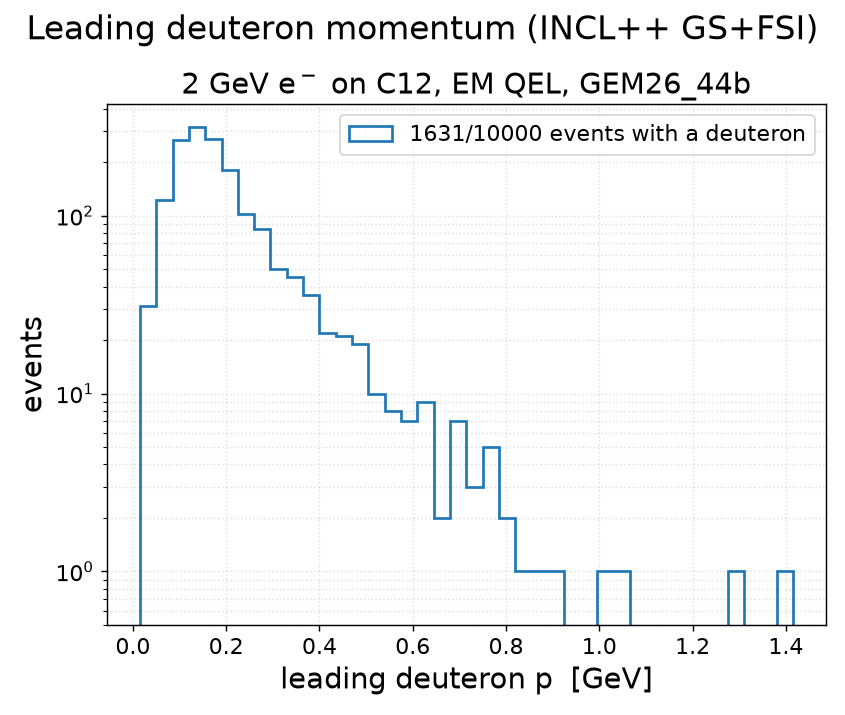
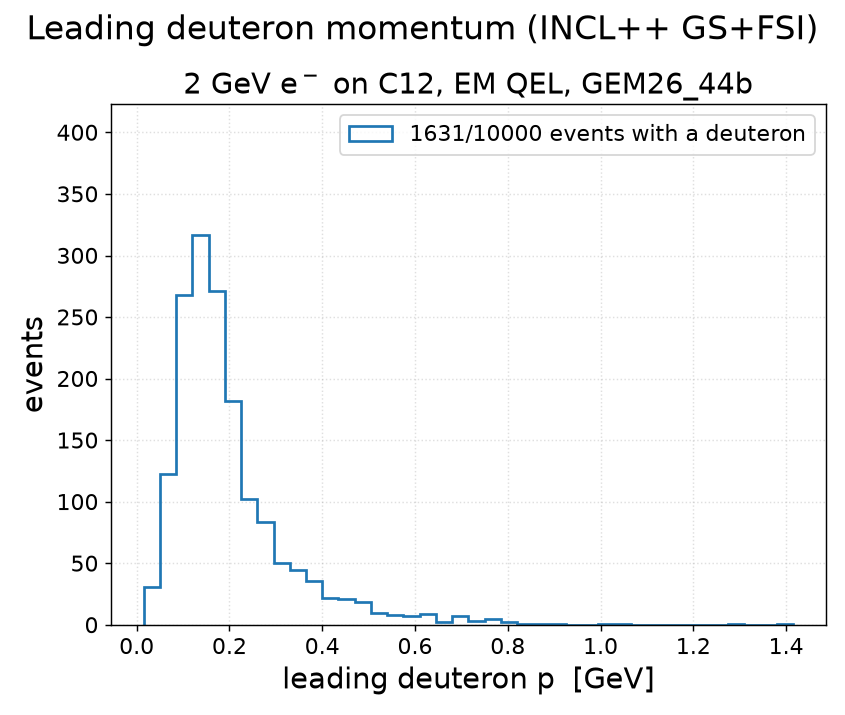
results: leading deuteron momentum with linear y axis

diff --git a/results/template/make_leading_deuteron_gem26_44b.py b/results/template/make_leading_deuteron_gem26_44b.py
@@ -34,8 +34,9 @@ ax.hist(leading, bins=40, color=COLORS[0], histtype="step", lw=1.5,
 style_axis(ax, title="2 GeV e$^-$ on C12, EM QEL, GEM26_44b",
            xlabel="leading deuteron p  [GeV]")
 ax.set_xscale("linear")  # momentum spans <1 decade; log x not useful here
+ax.set_yscale("linear")
 ax.set_ylabel("events", fontsize=FS_LABEL)
-ax.set_ylim(0.5, None)
+ax.set_ylim(0, None)
 ax.legend(fontsize=FS_LEGEND, loc="upper right")
 fig.suptitle("Leading deuteron momentum (INCL++ GS+FSI)", fontsize=FS_SUPTITLE)
 fig.tight_layout()
